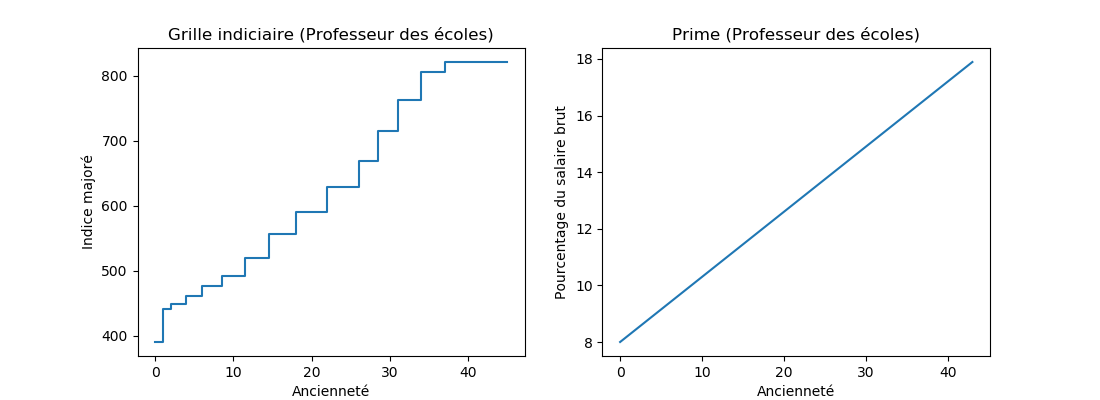
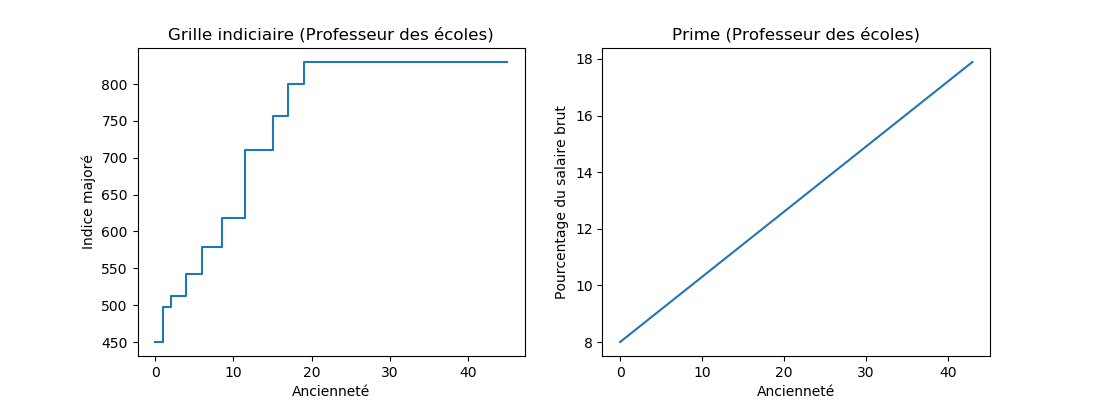
corrections

diff --git a/carriere.py b/carriere.py
@@ -241,14 +241,17 @@ class carriere(object):
             pass
 
         else: # default style="text"
-        
-            print "Carrière"
-            print "Annee   Age    Sal.cour Sal.cst   Pts    Ach.Pt  Vte.Pt"
+
+            x = PrettyTable()
+            
+            print self.nom_metier
+            x.field_names = [ "Annee","Age","Salaire","Salaire EC","Pts","Ach.Pt","Vte.Pt" ]
 
             for i in xrange(carriere.age_max - self.age_debut + 1):
                 an = self.annee_debut+i
-                print "%d: %d ans   %.2f  %.2f   %.2f   %.2f  %.2f"%( an, self.age_debut+i, self.sal[i]/12, self.sal[i]/12/m.prix[ an - m.debut ]*m.prix[ ANNEE_REF - m.debut], self.nb_pts[i], m.achat_pt[an - m.debut], m.vente_pt[ an - m.debut] )
-            
+                x.add_row( [ "%d"%an, "%d ans"%(self.age_debut+i),"%.2f"%( self.sal[i]/12),"%.2f"%(self.sal[i]/12/m.prix[ an - m.debut ]*m.prix[ ANNEE_REF - m.debut]),"%.2f"%(self.nb_pts[i]),"%.2f"%(m.achat_pt[an - m.debut]),"%.2f"%(m.vente_pt[ an - m.debut]) ] )
+
+            print(x)
             self.affiche_pension_macron(style)
 
         
@@ -264,10 +267,11 @@ class carriere(object):
         
             x = PrettyTable()
             print "Retraite Macron (Synthèse départs)"
-            x.field_names = ["Année", "Age", "Sur-/dé-cote", "Brut ms", "Brut ms EC", "Tx rempl.", "%/SMIC" ]
+            x.field_names = ["Année", "Age", "AgePivot", "Sur-/dé-cote", "Brut ms", "Brut ms EC", "Tx rempl.", "%/SMIC" ]
             for (a,d,p,t) in self.pension_macron:
                 an = self.annee_debut+a-self.age_debut
-                x.add_row( [ an, a, d, "%.2f"%(p/12), "%.2f"%(p/12/m.corr_prix_annee_ref[ an - m.debut]), "%.2f"%(t*100), "%.2f"%(p/m.smic[ an - m.debut ]) ])
+                ap = int(m.age_pivot[ an - m.debut])
+                x.add_row( [ an, a, "%d ans %d mois"%(ap, round((m.age_pivot[ an - m.debut]-ap)*12)), d, "%.2f"%(p/12), "%.2f"%(p/12/m.corr_prix_annee_ref[ an - m.debut]), "%.2f"%(t*100), "%.2f"%(p/m.smic[ an - m.debut ]) ])
             print(x)
 
             print "Retraite Macron (détaillée selon départ)"
@@ -316,31 +320,30 @@ class carriere_public(carriere):
     # TODO: rentrer plus de grilles
     
     grilles = [
-        ( [("ATSEM2","ATSEM 2ème classe"),("AdjAdm2","Adjoint Administratif 2ème classe")], [ (329,1), (330,2), (333,2), (336, 2), (345,2), (351,2), (364,2), (380,2), (390,3), (402,3), (411,4), (418, 100) ] ),
-        ( [("ATSEM1","ATSEM 1ère classe"),("AdjAdm1","Adjoint Administratif 1ère classe")], [ (350,1), (358,1), (368,2), (380,2), (393,2), (403,2), (415,3), (430,3), (450,3), (466,100) ] ),
-        ( [("MCF","Maître de Conférences")], [ (474,1), (531,2+10./12), (584,2+10./12), (643,2+10./12), (693,2+10./12), (739,3.5), (769,2+10./12), (803,2+10./12), (830,100) ] ),
-        ( [("CR","Chargé de Recherche")], [ (474,1), (510,2), (560,2+3./12), (600,2.5), (643,2.5), (693,2.5), (693,2.5), (739,3), (769,3), (803,2+9./12), (830,100) ] ),
-        ( [("DR2","Directeur de Recherche 2ème classe")], [ (667, 1+3./12), (705, 1+3./12), (743, 1+3./12), (830, 1+3./12), (830, 3.5), (890,100) ] ),
-        ( [("DR1","Directeur de Recherche 1ère classe")], [ (830,3), (972,3), (1013,3), (1067,100) ] ),
-        ( [("MCFHC","Maître de Conférences Hors Classe")], [(678,1), (716,1), (754,1), (796,1), (830,5), (880,100) ] ),
-        ( [("PR2","Professeur d'Université 2ème classe")], [(667,1), (705,1), (743,1), (785,1), (830,3), (880,100) ] ),
-        ( [("PR1","Professeur d'Université 1ère classe")], [(830,3), (967,1), (1008,1), (1062,1), (1119,1), (1143,1), (1168,100) ] ),
-        ( [("ProfEcoles","Professeur des écoles")], [(390,1), (441,1), (448,2), (461,2), (476,2.5), (492,3), (519,3), (557,3.5), (590,4), (629,4), (668,2.5), (715,2.5), (763,3), (806,3), (821,100) ] ), 
-        ( [("ProfCertifie","Professeur certifié")], [(450,1), (498,1), (513,2), (542,2), (579,2.5), (618,3), (710,3.5), (757,2), (800, 2), (830,100) ] ) ,
-        ( [("Infirmier2","Infirmière en soins généraux Grade 2")], [(422,1), (435,2), (455,2), (475,2), (498,3), (521,3.5), (544,4), (567,4), (594,4), (627,100)] ),
-        ( [("AideSoignant","Aide-soignante hospitalière")], [(350,1), (358,1), (368,2), (380,2), (393,2), (403,2), (415,3), (430,3), (450,3), (466,100) ] )
+        ( [("ATSEM","ATSEM (C2 puis C1)"),("AdjAdm","Adjoint Administratif (C2 puis C1)")], [ (329,1), (330,2), (333,2), (336, 2), (345,2), (351,2), (364,2), (380,2), (390,3), (402,3), (411,4), (415, 3), (430,3), (450,3), (466,100) ] ),
+        ( [("CR","Chargé de Recherche (CN puis HC)"), ("MCF","Maître de Conférences (CN puis HC)")], [ (474,1), (510,2), (560,2+3./12), (600,2.5), (643,2.5), (693,2.5), (693,2.5), (739,3), (769,3), (803,2+9./12), (830,100) ] ),
+        ( [("DR","Directeur de Recherche (DR2 puis DR1)"), ("PR","Professeur d'Université (PR2 puis PR1)") ], [ (667, 1+3./12), (705, 1+3./12), (743, 1+3./12), (830, 1+3./12), (830, 3), (972,3), (1013,100) ] ),
+        ( [("ProfCertifie","Professeur certifié"), ("ProfEcoles","Professeur des écoles")], [(450,1), (498,1), (513,2), (542,2), (579,2.5), (618,3), (710,3.5), (757,2), (800, 2), (830,100) ] ) ,
+        ( [("Infirmier","Infirmière en soins généraux (CN, CS, puis HC)")], [(390,2), (404,3), (422,3), (446,3), (469,3), (501,3), (520,4), (544,4), (571,4), (594,4), (627,100) ] ),
+        ( [("AideSoignant","Aide-soignante (CN puis HC)")], [(327,1), (328,2), (329,2), (330,2), (332,2), (334,2), (338,2), (342,2), (346,3), (356,3), (368,3+1./3), (380,2), (390,3), (402,3), (411,4), (418,100) ] ),
+        ( [("Redacteur","Rédacteur territorial (C2 puis C1)")], [(356,2), (362,2), (369,2), (379,2), (390,2), (401,2), (416, 2), (436,3), (452,3), (461,3), (480,3), (504,4), (534,3), (551,3), (569,3), (587,100) ] )
+        
     ]
 
     @classmethod
     def numero_metier(cls, id_metier):
 
-        n_metier=0
-        while ( n_metier < len(carriere_public.grilles) ):
-            if id_metier == carriere_public.grilles[n_metier][0][0][0]:
-                return n_metier
-            n_metier += 1
+        n_metier = [0,0]
+        while ( n_metier[0] < len(carriere_public.grilles) ):
+            lc = carriere_public.grilles[ n_metier[0] ][0]
+            while n_metier[1] < len(lc):
+                if id_metier == lc[ n_metier[1] ][0]:
+                    return n_metier
+                n_metier[1] += 1
+            n_metier[0] +=1
+            n_metier[1] = 0
 
-        return -1 # si pas trouvé
+        return(-1,0) # si pas trouvé
             
     
     def __init__(self, m, age_debut, annee_debut, id_metier, part_prime=0.0):
@@ -348,13 +351,14 @@ class carriere_public(carriere):
         super(carriere_public,self).__init__(m, age_debut, annee_debut)
 
         n_metier = carriere_public.numero_metier(id_metier)
-        if n_metier == -1:
+        if n_metier == (-1,0):
             raise Exception(id_metier+" n'a pas été trouvé dans la liste des métiers publics")
 
         self.n_metier = n_metier
-        self.nom_metier = carriere_public.grilles[n_metier][0][0][1]
-            
-        self.metier, grille = carriere_public.grilles[n_metier]
+        self.nom_metier = carriere_public.grilles[ n_metier[0] ][0][n_metier[1]][1]
+        
+        grille = carriere_public.grilles[n_metier[0]][1]
+        
         self.part_prime = part_prime
         
         self.sal,self. sal_hp, self.prime, self.indm, self.gipa = [], [], [], [], []
@@ -446,7 +450,7 @@ class carriere_public(carriere):
         
     def plot_grille(self):
 
-        g = carriere_public.grilles[self.n_metier][1]
+        g = carriere_public.grilles[self.n_metier[0]][1]
         x,y = 0, g[0][0]
         lx, ly = [x], [y]
     
@@ -686,13 +690,10 @@ def debug0():
 
     print "Details carrière et retraite pour deux professions"
     
-    c=carriere_public(m1,22,2020,"ProfCertifie",0.08)
-    c.affiche_carriere()
-
     c=carriere_public(m1,22,2020,"ProfEcoles",0.08)
     c.affiche_carriere()
 
-    c=carriere_public(m1,22,2002,"Infirmier2",0.23)
+    c=carriere_prive(m1,22,2002)
     c.affiche_carriere()
 
 
@@ -747,7 +748,7 @@ m2 = modele_destinie(debut,fin)
 
 # Carrières considérées
 
-cas = [ ("ProfEcoles",0.08), ("ProfCertifie",0.09), ("PR2",0.1), ("PR1",0.1), ("ATSEM1",0.1), ("ATSEM2",0.1), ("MCF",0.1), ("MCFHC",0.1), ("CR",0.1), ("DR1",0.1), ("DR2",0.1), ("Infirmier2",0.23), ("AideSoignant",0.19) ]
+cas = [ ("ProfEcoles",0.081), ("ProfCertifie",0.096), ("PR",0.071), ("ATSEM",0.16), ("MCF",0.034), ("CR",0.034), ("DR",0.071), ("Infirmier",0.299), ("AideSoignant",0.242), ("Redacteur",0.281) ]
 
 
 
@@ -757,12 +758,12 @@ debug0()
 
 ### Génération comparaison des grilles
     
-#simu0()
+simu0()
 
 
 ### Génération comparaison modèles et infographies
 
-#simu1()
+simu1()
 
 ###
 
